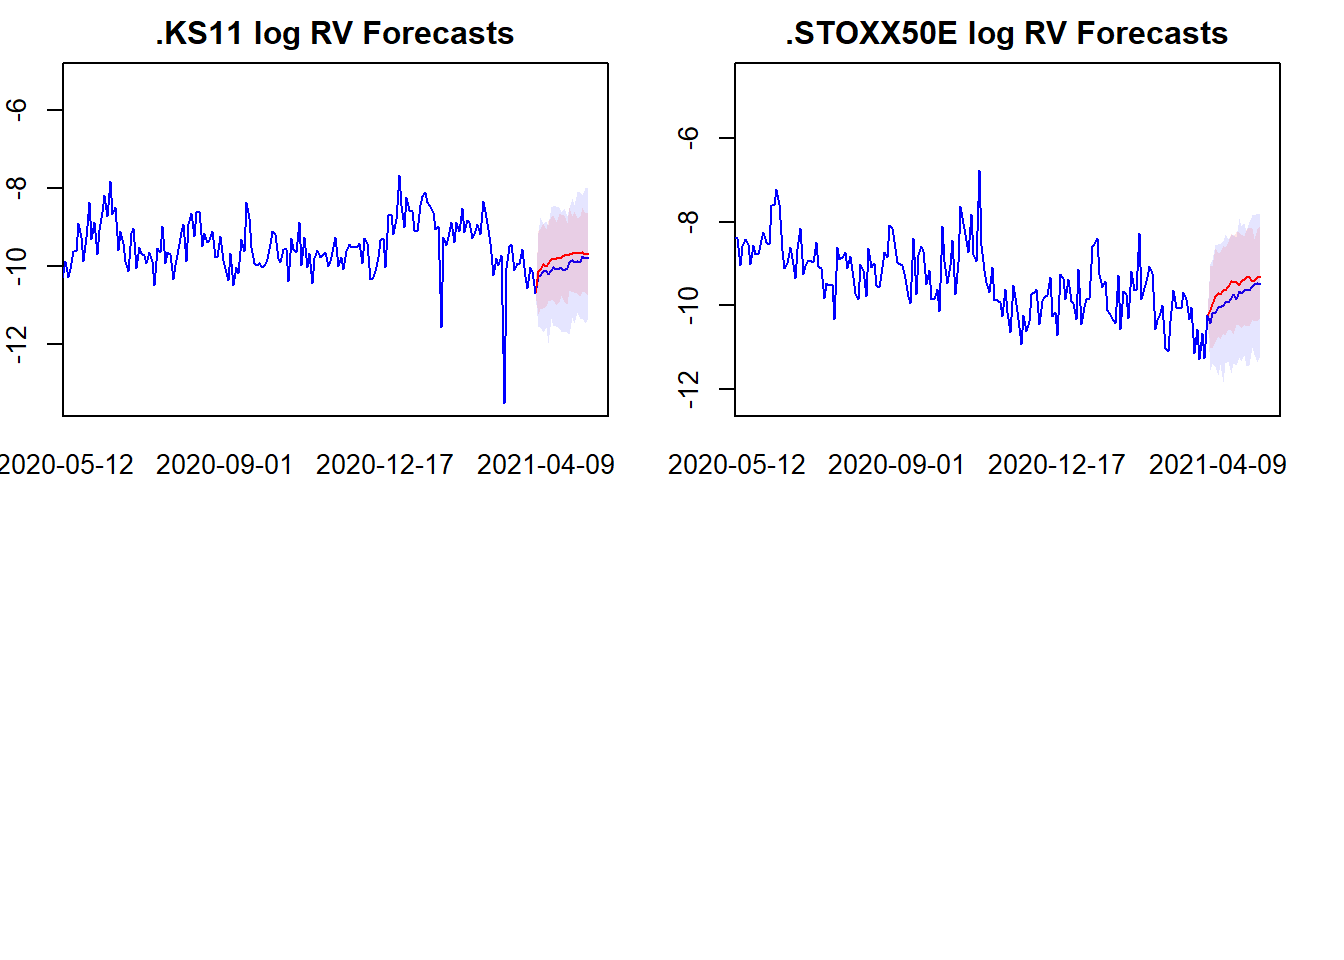
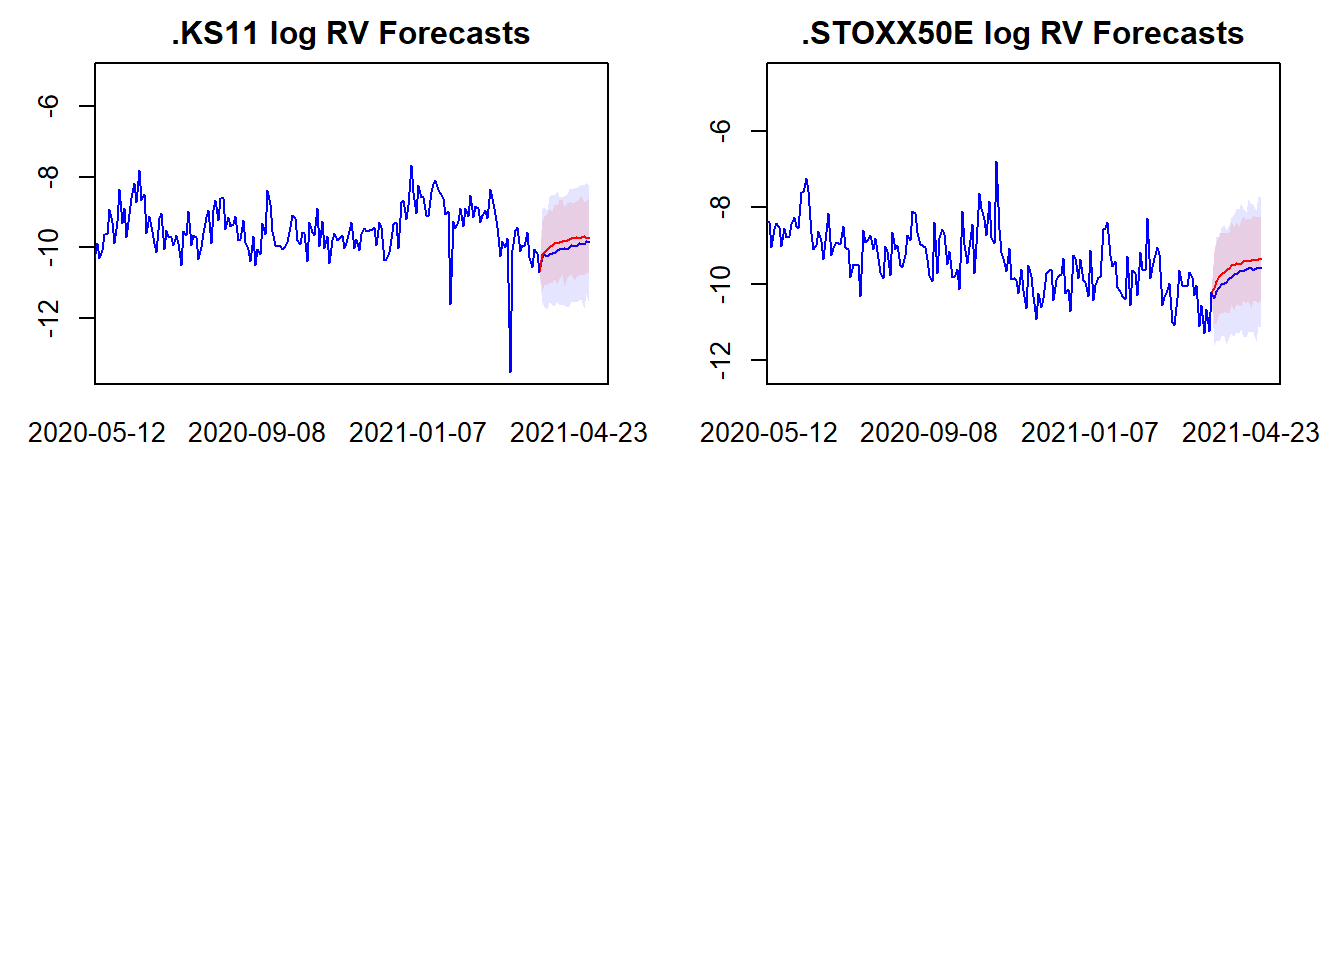
docs - increasing S to 1000

diff --git a/docs/index.html b/docs/index.html
@@ -565,16 +565,16 @@ p(\Sigma|Y,X) &amp;= IW_N(\bar{S},\bar{\nu}) \\
 <span id="cb2-27"><a href="#cb2-27" aria-hidden="true" tabindex="-1"></a></span>
 <span id="cb2-28"><a href="#cb2-28" aria-hidden="true" tabindex="-1"></a><span class="fu">round</span>(<span class="fu">apply</span>(res[[<span class="dv">1</span>]],<span class="dv">1</span><span class="sc">:</span><span class="dv">2</span>,mean),<span class="dv">2</span>) <span class="co">#A posterior mean</span></span></code><button title="Copy to Clipboard" class="code-copy-button"><i class="bi"></i></button></pre></div>
 <div class="cell-output cell-output-stdout">
-<pre><code>      [,1]  [,2]
-[1,] -0.23 -0.08
-[2,]  0.98  0.00
-[3,]  0.00  0.99</code></pre>
+<pre><code>      [,1] [,2]
+[1,] -0.11 0.19
+[2,]  0.99 0.00
+[3,]  0.00 0.99</code></pre>
 </div>
 <div class="sourceCode cell-code" id="cb4"><pre class="sourceCode r code-with-copy"><code class="sourceCode r"><span id="cb4-1"><a href="#cb4-1" aria-hidden="true" tabindex="-1"></a><span class="fu">round</span>(<span class="fu">apply</span>(res[[<span class="dv">2</span>]],<span class="dv">1</span><span class="sc">:</span><span class="dv">2</span>,mean),<span class="dv">2</span>) <span class="co">#Sigma posterior mean</span></span></code><button title="Copy to Clipboard" class="code-copy-button"><i class="bi"></i></button></pre></div>
 <div class="cell-output cell-output-stdout">
-<pre><code>     [,1] [,2]
-[1,] 0.96 0.00
-[2,] 0.00 1.01</code></pre>
+<pre><code>      [,1]  [,2]
+[1,]  0.95 -0.01
+[2,] -0.01  1.00</code></pre>
 </div>
 </div>
 <p>As shown above the estimated parameter means closely match the expected values for the data generating process.</p>
@@ -692,16 +692,16 @@ p(\lambda|Y,X,A,\Sigma) &amp;\propto L(A,\Sigma,\lambda|Y,X)p(\lambda) \\
 <span id="cb6-36"><a href="#cb6-36" aria-hidden="true" tabindex="-1"></a></span>
 <span id="cb6-37"><a href="#cb6-37" aria-hidden="true" tabindex="-1"></a><span class="fu">round</span>(<span class="fu">apply</span>(A.posterior.draws, <span class="dv">1</span><span class="sc">:</span><span class="dv">2</span>, mean),<span class="dv">2</span>)</span></code><button title="Copy to Clipboard" class="code-copy-button"><i class="bi"></i></button></pre></div>
 <div class="cell-output cell-output-stdout">
-<pre><code>      [,1]  [,2]
-[1,] -0.25 -0.07
-[2,]  0.98  0.00
-[3,]  0.01  0.99</code></pre>
+<pre><code>      [,1] [,2]
+[1,] -0.13 0.20
+[2,]  0.98 0.00
+[3,]  0.00 0.99</code></pre>
 </div>
 <div class="sourceCode cell-code" id="cb8"><pre class="sourceCode r code-with-copy"><code class="sourceCode r"><span id="cb8-1"><a href="#cb8-1" aria-hidden="true" tabindex="-1"></a><span class="fu">round</span>(<span class="fu">apply</span>(Sigma.posterior.draws, <span class="dv">1</span><span class="sc">:</span><span class="dv">2</span>, mean),<span class="dv">2</span>)</span></code><button title="Copy to Clipboard" class="code-copy-button"><i class="bi"></i></button></pre></div>
 <div class="cell-output cell-output-stdout">
-<pre><code>     [,1] [,2]
-[1,] 0.96 0.00
-[2,] 0.00 1.01</code></pre>
+<pre><code>      [,1]  [,2]
+[1,]  0.94 -0.01
+[2,] -0.01  0.99</code></pre>
 </div>
 <div class="sourceCode cell-code" id="cb10"><pre class="sourceCode r code-with-copy"><code class="sourceCode r"><span id="cb10-1"><a href="#cb10-1" aria-hidden="true" tabindex="-1"></a><span class="fu">round</span>(<span class="fu">mean</span>(lambda.posterior.draws),<span class="dv">2</span>)</span></code><button title="Copy to Clipboard" class="code-copy-button"><i class="bi"></i></button></pre></div>
 <div class="cell-output cell-output-stdout">
@@ -733,26 +733,26 @@ p(\lambda|Y,X,A,\Sigma) &amp;\propto L(A,\Sigma,\lambda|Y,X)p(\lambda) \\
 <span id="cb12-10"><a href="#cb12-10" aria-hidden="true" tabindex="-1"></a></span>
 <span id="cb12-11"><a href="#cb12-11" aria-hidden="true" tabindex="-1"></a>pris <span class="ot">=</span> <span class="fu">list</span>(A.pri, V.pri, S.pri, nu.pri)</span>
 <span id="cb12-12"><a href="#cb12-12" aria-hidden="true" tabindex="-1"></a></span>
-<span id="cb12-13"><a href="#cb12-13" aria-hidden="true" tabindex="-1"></a>res <span class="ot">=</span> <span class="fu">get_posteriors</span>(<span class="dv">300</span>, Y_ext, X_ext, pris)</span>
+<span id="cb12-13"><a href="#cb12-13" aria-hidden="true" tabindex="-1"></a>res <span class="ot">=</span> <span class="fu">get_posteriors</span>(<span class="dv">1000</span>, Y_ext, X_ext, pris)</span>
 <span id="cb12-14"><a href="#cb12-14" aria-hidden="true" tabindex="-1"></a></span>
 <span id="cb12-15"><a href="#cb12-15" aria-hidden="true" tabindex="-1"></a><span class="fu">head</span>(<span class="fu">round</span>(<span class="fu">apply</span>(res[[<span class="dv">1</span>]],<span class="dv">1</span><span class="sc">:</span><span class="dv">2</span>,mean),<span class="dv">2</span>)) <span class="co">#A posterior mean</span></span></code><button title="Copy to Clipboard" class="code-copy-button"><i class="bi"></i></button></pre></div>
 <div class="cell-output cell-output-stdout">
 <pre><code>      [,1]  [,2]  [,3]  [,4]  [,5]  [,6]  [,7] [,8]  [,9] [,10]
-[1,] -3.19 -0.09 -0.93 -0.76 -0.66 -2.51 -1.99 0.24 -1.63 -1.14
+[1,] -3.19 -0.09 -0.93 -0.76 -0.66 -2.52 -2.00 0.25 -1.63 -1.13
 [2,]  0.21  0.04  0.04  0.08 -0.02  0.02  0.00 0.04 -0.04  0.02
-[3,]  0.08  0.14  0.05  0.07  0.06  0.04  0.05 0.13  0.05  0.07
+[3,]  0.08  0.14  0.05  0.08  0.06  0.04  0.05 0.13  0.04  0.07
 [4,]  0.05  0.05  0.12  0.09  0.10  0.01  0.03 0.06  0.01  0.12
-[5,]  0.10  0.04  0.06  0.10  0.03  0.04  0.02 0.04  0.01  0.04
+[5,]  0.10  0.04  0.06  0.11  0.03  0.04  0.02 0.04  0.02  0.04
 [6,] -0.02  0.06  0.10  0.05  0.17  0.02  0.04 0.05  0.05  0.12</code></pre>
 </div>
 <div class="sourceCode cell-code" id="cb14"><pre class="sourceCode r code-with-copy"><code class="sourceCode r"><span id="cb14-1"><a href="#cb14-1" aria-hidden="true" tabindex="-1"></a><span class="fu">head</span>(<span class="fu">round</span>(<span class="fu">apply</span>(res[[<span class="dv">2</span>]],<span class="dv">1</span><span class="sc">:</span><span class="dv">2</span>,mean),<span class="dv">2</span>)) <span class="co">#Sigma posterior mean</span></span></code><button title="Copy to Clipboard" class="code-copy-button"><i class="bi"></i></button></pre></div>
 <div class="cell-output cell-output-stdout">
 <pre><code>     [,1] [,2] [,3] [,4] [,5] [,6] [,7] [,8]  [,9] [,10]
-[1,] 0.83 0.07 0.08 0.15 0.04 0.06 0.08 0.08 -0.01  0.09
-[2,] 0.07 0.83 0.17 0.19 0.18 0.08 0.09 0.42  0.09  0.19
+[1,] 0.83 0.07 0.08 0.15 0.04 0.06 0.07 0.08 -0.01  0.09
+[2,] 0.07 0.83 0.17 0.19 0.18 0.08 0.08 0.42  0.09  0.19
 [3,] 0.08 0.17 0.51 0.19 0.24 0.05 0.06 0.18  0.05  0.26
-[4,] 0.15 0.19 0.19 0.65 0.18 0.07 0.07 0.19  0.05  0.24
-[5,] 0.04 0.18 0.24 0.18 0.58 0.05 0.08 0.18  0.07  0.28
+[4,] 0.15 0.19 0.19 0.64 0.18 0.07 0.07 0.19  0.05  0.24
+[5,] 0.04 0.18 0.24 0.18 0.58 0.05 0.07 0.18  0.07  0.27
 [6,] 0.06 0.08 0.05 0.07 0.05 0.55 0.09 0.08  0.11  0.04</code></pre>
 </div>
 </div>
@@ -770,7 +770,7 @@ p(\lambda|Y,X,A,\Sigma) &amp;\propto L(A,\Sigma,\lambda|Y,X)p(\lambda) \\
 <span id="cb16-8"><a href="#cb16-8" aria-hidden="true" tabindex="-1"></a></span>
 <span id="cb16-9"><a href="#cb16-9" aria-hidden="true" tabindex="-1"></a>lambda.draw <span class="ot">=</span> lambda_s.gprior<span class="sc">/</span><span class="fu">rchisq</span>(<span class="dv">1</span>, lambda_v.gprior)</span>
 <span id="cb16-10"><a href="#cb16-10" aria-hidden="true" tabindex="-1"></a></span>
-<span id="cb16-11"><a href="#cb16-11" aria-hidden="true" tabindex="-1"></a>S <span class="ot">=</span> <span class="dv">300</span> <span class="co"># A limited number of draws are chosen for speed of estimation. This will be increased in the final submission.</span></span>
+<span id="cb16-11"><a href="#cb16-11" aria-hidden="true" tabindex="-1"></a>S <span class="ot">=</span> <span class="dv">1000</span> <span class="co"># A limited number of draws are chosen for speed of estimation. This will be increased in the final submission.</span></span>
 <span id="cb16-12"><a href="#cb16-12" aria-hidden="true" tabindex="-1"></a></span>
 <span id="cb16-13"><a href="#cb16-13" aria-hidden="true" tabindex="-1"></a>Sigma.posterior.draws <span class="ot">=</span> <span class="fu">array</span>(<span class="cn">NA</span>, <span class="fu">c</span>(N,N,S))</span>
 <span id="cb16-14"><a href="#cb16-14" aria-hidden="true" tabindex="-1"></a>A.posterior.draws <span class="ot">=</span> <span class="fu">array</span>(<span class="cn">NA</span>, <span class="fu">c</span>((<span class="dv">1</span><span class="sc">+</span>p<span class="sc">*</span>N),N,S))</span>
@@ -800,29 +800,29 @@ p(\lambda|Y,X,A,\Sigma) &amp;\propto L(A,\Sigma,\lambda|Y,X)p(\lambda) \\
 <span id="cb16-38"><a href="#cb16-38" aria-hidden="true" tabindex="-1"></a><span class="fu">head</span>(<span class="fu">round</span>(<span class="fu">apply</span>(A.posterior.draws, <span class="dv">1</span><span class="sc">:</span><span class="dv">2</span>, mean),<span class="dv">2</span>))</span></code><button title="Copy to Clipboard" class="code-copy-button"><i class="bi"></i></button></pre></div>
 <div class="cell-output cell-output-stdout">
 <pre><code>      [,1]  [,2]  [,3]  [,4]  [,5]  [,6]  [,7]  [,8]  [,9] [,10]
-[1,] -4.58 -1.28 -1.98 -1.99 -1.64 -3.95 -3.32 -0.96 -2.95 -2.04
-[2,]  0.12  0.04  0.04  0.06  0.01  0.02  0.01  0.04 -0.01  0.03
+[1,] -4.60 -1.28 -1.99 -2.02 -1.66 -3.98 -3.35 -0.97 -2.98 -2.05
+[2,]  0.12  0.04  0.04  0.06  0.01  0.02  0.01  0.04 -0.02  0.03
 [3,]  0.06  0.10  0.06  0.07  0.06  0.04  0.05  0.10  0.05  0.06
-[4,]  0.04  0.06  0.08  0.07  0.08  0.02  0.03  0.06  0.02  0.08
-[5,]  0.07  0.06  0.06  0.07  0.05  0.03  0.03  0.06  0.02  0.05
+[4,]  0.04  0.05  0.08  0.07  0.08  0.02  0.03  0.06  0.02  0.08
+[5,]  0.07  0.05  0.06  0.07  0.05  0.03  0.03  0.06  0.02  0.05
 [6,]  0.01  0.06  0.08  0.05  0.10  0.03  0.04  0.06  0.04  0.08</code></pre>
 </div>
 <div class="sourceCode cell-code" id="cb18"><pre class="sourceCode r code-with-copy"><code class="sourceCode r"><span id="cb18-1"><a href="#cb18-1" aria-hidden="true" tabindex="-1"></a><span class="fu">head</span>(<span class="fu">round</span>(<span class="fu">apply</span>(Sigma.posterior.draws, <span class="dv">1</span><span class="sc">:</span><span class="dv">2</span>, mean),<span class="dv">2</span>))</span></code><button title="Copy to Clipboard" class="code-copy-button"><i class="bi"></i></button></pre></div>
 <div class="cell-output cell-output-stdout">
 <pre><code>     [,1] [,2] [,3] [,4] [,5] [,6] [,7] [,8] [,9] [,10]
-[1,] 0.50 0.04 0.04 0.06 0.02 0.03 0.03 0.04 0.00  0.04
-[2,] 0.04 0.52 0.07 0.07 0.07 0.04 0.04 0.14 0.05  0.07
+[1,] 0.49 0.03 0.04 0.06 0.02 0.02 0.03 0.04 0.00  0.04
+[2,] 0.03 0.52 0.07 0.07 0.07 0.04 0.04 0.14 0.05  0.07
 [3,] 0.04 0.07 0.32 0.07 0.09 0.02 0.03 0.07 0.02  0.09
-[4,] 0.06 0.07 0.07 0.40 0.07 0.03 0.03 0.07 0.03  0.08
-[5,] 0.02 0.07 0.09 0.07 0.36 0.03 0.04 0.07 0.04  0.10
-[6,] 0.03 0.04 0.02 0.03 0.03 0.33 0.04 0.04 0.05  0.02</code></pre>
+[4,] 0.06 0.07 0.07 0.40 0.07 0.03 0.03 0.07 0.02  0.08
+[5,] 0.02 0.07 0.09 0.07 0.35 0.03 0.04 0.07 0.04  0.10
+[6,] 0.02 0.04 0.02 0.03 0.03 0.33 0.04 0.04 0.05  0.02</code></pre>
 </div>
 <div class="sourceCode cell-code" id="cb20"><pre class="sourceCode r code-with-copy"><code class="sourceCode r"><span id="cb20-1"><a href="#cb20-1" aria-hidden="true" tabindex="-1"></a><span class="fu">round</span>(<span class="fu">mean</span>(lambda.posterior.draws),<span class="dv">2</span>)</span></code><button title="Copy to Clipboard" class="code-copy-button"><i class="bi"></i></button></pre></div>
 <div class="cell-output cell-output-stdout">
-<pre><code>[1] 3.96</code></pre>
+<pre><code>[1] 3.98</code></pre>
 </div>
 </div>
-<p>We can then compute forecasts for both models by sampling from the predictive densities. For each draw of <span class="math inline">\(A\)</span> and <span class="math inline">\(\Sigma\)</span>, we sample h times from the predictive density in order to compute a forecast horizon of h periods. Each of the h draws are computed as 1 period ahead forecasts. Where the predictive density requires data which has not yet been observed this is replaced by the preceeding forecasts computed within the same iteration.</p>
+<p>We can then compute forecasts for both models by sampling from the predictive densities. For each draw of <span class="math inline">\(A\)</span> and <span class="math inline">\(\Sigma\)</span>, we sample h times from the predictive density in order to compute a forecast horizon of h periods. Each of the h draws are computed as 1 period ahead forecasts. Where the predictive density requires data which has not yet been observed this is replaced by the preceding forecasts computed within the same iteration.</p>
 <div class="cell">
 <div class="sourceCode cell-code" id="cb22"><pre class="sourceCode r code-with-copy"><code class="sourceCode r"><span id="cb22-1"><a href="#cb22-1" aria-hidden="true" tabindex="-1"></a><span class="co">#Predictive density function</span></span>
 <span id="cb22-2"><a href="#cb22-2" aria-hidden="true" tabindex="-1"></a></span>
@@ -886,8 +886,8 @@ p(\lambda|Y,X,A,\Sigma) &amp;\propto L(A,\Sigma,\lambda|Y,X)p(\lambda) \\
 <span id="cb22-60"><a href="#cb22-60" aria-hidden="true" tabindex="-1"></a>  <span class="fu">return</span>(<span class="fu">list</span>(point.forecasts, interval.forecasts))</span>
 <span id="cb22-61"><a href="#cb22-61" aria-hidden="true" tabindex="-1"></a>}</span>
 <span id="cb22-62"><a href="#cb22-62" aria-hidden="true" tabindex="-1"></a></span>
-<span id="cb22-63"><a href="#cb22-63" aria-hidden="true" tabindex="-1"></a>preds_ext <span class="ot">=</span> <span class="fu">get_predictions</span>(<span class="dv">300</span>, <span class="dv">20</span>, A.posterior.draws, Sigma.posterior.draws)</span>
-<span id="cb22-64"><a href="#cb22-64" aria-hidden="true" tabindex="-1"></a>preds_base <span class="ot">=</span> <span class="fu">get_predictions</span>(<span class="dv">300</span>, <span class="dv">20</span>, res[[<span class="dv">1</span>]], res[[<span class="dv">2</span>]])</span></code><button title="Copy to Clipboard" class="code-copy-button"><i class="bi"></i></button></pre></div>
+<span id="cb22-63"><a href="#cb22-63" aria-hidden="true" tabindex="-1"></a>preds_ext <span class="ot">=</span> <span class="fu">get_predictions</span>(<span class="dv">1000</span>, <span class="dv">20</span>, A.posterior.draws, Sigma.posterior.draws)</span>
+<span id="cb22-64"><a href="#cb22-64" aria-hidden="true" tabindex="-1"></a>preds_base <span class="ot">=</span> <span class="fu">get_predictions</span>(<span class="dv">1000</span>, <span class="dv">20</span>, res[[<span class="dv">1</span>]], res[[<span class="dv">2</span>]])</span></code><button title="Copy to Clipboard" class="code-copy-button"><i class="bi"></i></button></pre></div>
 </div>
 <p>The respective out of sample forecasts for 20 days ahead are plotted below. The forecasts from the baseline model are plotted in blue and the T-distributed error model forecasts are plotted in red. 90% confidence intervals are denoted by the shaded regions.</p>
 </section>
